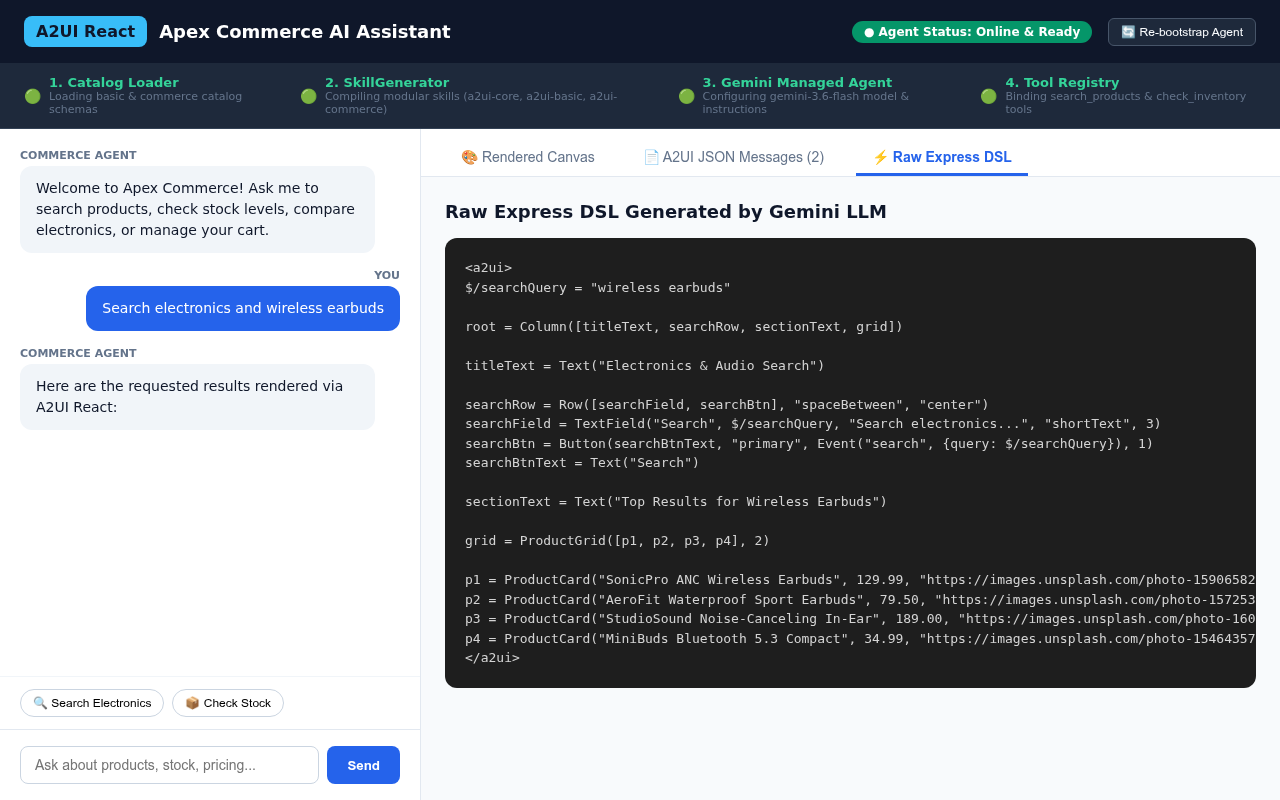
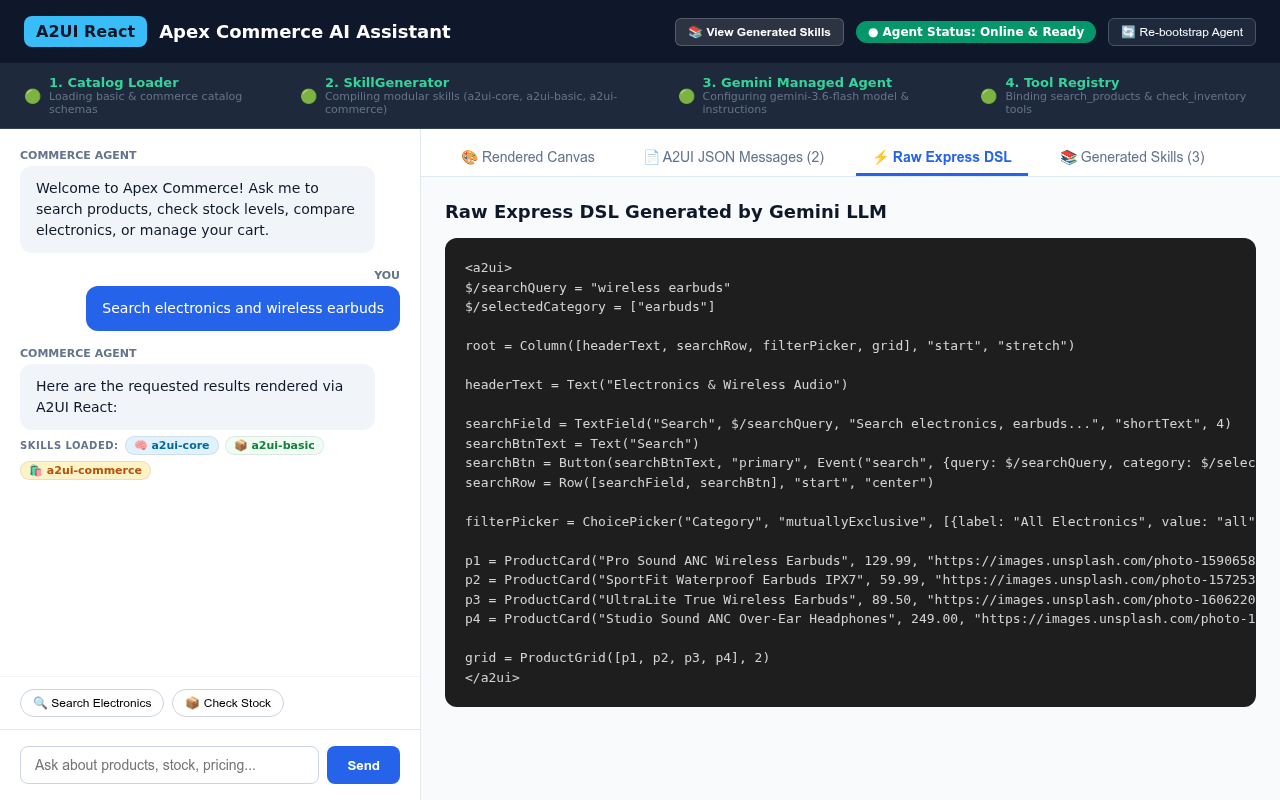
feat(demo): add generated skills inspector tab, header button, and message history skill loading badges

diff --git a/samples/community/commerce_agent_demo/client/src/App.tsx b/samples/community/commerce_agent_demo/client/src/App.tsx
@@ -3,10 +3,23 @@ import {Catalog, MessageProcessor} from '@a2ui/web_core/v0_9';
 import {basicCatalog, A2uiSurface} from '@a2ui/react/v0_9';
 import {commerceCatalog} from './commerceCatalog';
 
+interface LoadedSkill {
+  id: string;
+  name: string;
+  description: string;
+}
+
 interface ChatMessage {
   id: string;
   sender: 'user' | 'assistant';
   text: string;
+  loadedSkills?: LoadedSkill[];
+}
+
+interface SkillItem {
+  name: string;
+  path: string;
+  content: string;
 }
 
 interface BootstrapStep {
@@ -29,9 +42,13 @@ export default function App() {
   const [surfaceId, setSurfaceId] = useState<string>('main');
 
   // Inspector & Code Tabs
-  const [activeTab, setActiveTab] = useState<'canvas' | 'json' | 'express'>('canvas');
+  const [activeTab, setActiveTab] = useState<'canvas' | 'json' | 'express' | 'skills'>('canvas');
   const [rawExpress, setRawExpress] = useState<string>('');
   const [a2uiMessages, setA2uiMessages] = useState<any[]>([]);
+
+  // Skills Viewer State
+  const [skills, setSkills] = useState<SkillItem[]>([]);
+  const [activeSkillTab, setActiveSkillTab] = useState<string>('a2ui-core');
 
   // Bootstrap Tracker State
   const [bootstrapStatus, setBootstrapStatus] = useState<'initializing' | 'ready'>('initializing');
@@ -62,9 +79,17 @@ export default function App() {
     },
   ]);
 
-  // Run Bootstrap Sequence on Mount
+  // Run Bootstrap Sequence & Fetch Generated Skills on Mount
   useEffect(() => {
     runBootstrapSequence();
+    fetch('/api/skills')
+      .then(res => res.json())
+      .then(data => {
+        if (data.skills && Array.isArray(data.skills)) {
+          setSkills(data.skills);
+        }
+      })
+      .catch(err => console.error('Failed to fetch skills:', err));
   }, []);
 
   const runBootstrapSequence = async () => {
@@ -131,7 +156,7 @@ export default function App() {
     // Synchronously create shared surface main on initialization
     proc.processMessages([
       {
-        version: 'v1.0',
+        version: 'v0.9',
         createSurface: {
           surfaceId: 'main',
           catalogId: 'https://a2ui.org/specification/v1_0/catalogs/basic/catalog.json',
@@ -206,6 +231,11 @@ export default function App() {
           data.status === 'success'
             ? 'Here are the requested results rendered via A2UI React:'
             : `Error: ${data.error || 'Failed to fetch'}`,
+        loadedSkills: data.loaded_skills || [
+          {id: 'a2ui-core', name: 'a2ui-core', description: 'Express DSL Grammar & Syntax Rules'},
+          {id: 'a2ui-basic', name: 'a2ui-basic', description: 'Standard Basic Component Catalog'},
+          {id: 'a2ui-commerce', name: 'a2ui-commerce', description: 'Commerce Catalog (ProductCard, ProductGrid)'},
+        ],
       };
 
       setMessages(prev => [...prev, assistantMsg]);
@@ -261,7 +291,25 @@ export default function App() {
             Apex Commerce AI Assistant
           </h2>
         </div>
-        <div style={{display: 'flex', alignItems: 'center', gap: '16px'}}>
+        <div style={{display: 'flex', alignItems: 'center', gap: '12px'}}>
+          <button
+            onClick={() => setActiveTab('skills')}
+            style={{
+              background: activeTab === 'skills' ? '#38bdf8' : 'rgba(255,255,255,0.12)',
+              color: activeTab === 'skills' ? '#0f172a' : '#ffffff',
+              border: '1px solid rgba(255,255,255,0.2)',
+              borderRadius: '6px',
+              padding: '6px 12px',
+              fontSize: '12px',
+              fontWeight: 600,
+              cursor: 'pointer',
+              display: 'flex',
+              alignItems: 'center',
+              gap: '6px',
+            }}
+          >
+            📚 View Generated Skills
+          </button>
           <span
             style={{
               fontSize: '12px',
@@ -385,6 +433,65 @@ export default function App() {
                 >
                   {msg.text}
                 </div>
+                {msg.loadedSkills && msg.loadedSkills.length > 0 && (
+                  <div
+                    style={{
+                      display: 'flex',
+                      gap: '6px',
+                      flexWrap: 'wrap',
+                      marginTop: '6px',
+                      marginBottom: '4px',
+                      alignItems: 'center',
+                    }}
+                  >
+                    <span
+                      style={{
+                        fontSize: '10px',
+                        color: '#64748b',
+                        fontWeight: 600,
+                        textTransform: 'uppercase',
+                        letterSpacing: '0.5px',
+                      }}
+                    >
+                      Skills Loaded:
+                    </span>
+                    {msg.loadedSkills.map(sk => (
+                      <span
+                        key={sk.id}
+                        onClick={() => {
+                          setActiveSkillTab(sk.name);
+                          setActiveTab('skills');
+                        }}
+                        style={{
+                          fontSize: '11px',
+                          background: sk.name.includes('core')
+                            ? '#e0f2fe'
+                            : sk.name.includes('basic')
+                            ? '#f0fdf4'
+                            : '#fef3c7',
+                          color: sk.name.includes('core')
+                            ? '#0369a1'
+                            : sk.name.includes('basic')
+                            ? '#15803d'
+                            : '#b45309',
+                          padding: '2px 8px',
+                          borderRadius: '10px',
+                          fontWeight: 600,
+                          border: '1px solid rgba(0,0,0,0.08)',
+                          cursor: 'pointer',
+                        }}
+                        title={`Click to inspect source code of ${sk.name} skill`}
+                      >
+                        {sk.name.includes('core')
+                          ? '🧠 '
+                          : sk.name.includes('basic')
+                          ? '📦 '
+                          : '🛍 '}
+                        {sk.name}
+                      </span>
+                    ))}
+                  </div>
+                )}
               </div>
             ))}
             {loading && (
@@ -548,6 +655,24 @@ export default function App() {
             >
               ⚡ Raw Express DSL
             </button>
+            <button
+              onClick={() => setActiveTab('skills')}
+              style={{
+                padding: '8px 16px',
+                border: 'none',
+                borderBottom:
+                  activeTab === 'skills'
+                    ? '3px solid #2563eb'
+                    : '3px solid transparent',
+                background: 'transparent',
+                fontWeight: activeTab === 'skills' ? 700 : 500,
+                color: activeTab === 'skills' ? '#2563eb' : '#64748b',
+                fontSize: '14px',
+                cursor: 'pointer',
+              }}
+            >
+              📚 Generated Skills ({skills.length || 3})
+            </button>
           </div>
 
           {/* Tab Content Panel */}
@@ -655,6 +780,106 @@ export default function App() {
                     No Express DSL text generated yet. Submit a query to inspect.
                   </div>
                 )}
+              </div>
+            )}
+
+            {activeTab === 'skills' && (
+              <div>
+                <div style={{display: 'flex', justifyContent: 'space-between', alignItems: 'center', marginBottom: '16px'}}>
+                  <h3 style={{margin: 0, fontSize: '18px', color: '#0f172a'}}>
+                    Compiled Modular Skills Source Code
+                  </h3>
+                  <div style={{fontSize: '12px', color: '#64748b'}}>
+                    Generated dynamically by <code style={{background: '#e2e8f0', padding: '2px 6px', borderRadius: '4px'}}>SkillGenerator</code>
+                  </div>
+                </div>
+
+                {/* Sub-tabs for Skill Selection */}
+                <div style={{display: 'flex', gap: '8px', marginBottom: '16px'}}>
+                  {(skills.length > 0
+                    ? skills
+                    : [
+                        {name: 'a2ui-core', path: 'a2ui-core/SKILL.md', content: 'Loading skill content...'},
+                        {name: 'a2ui-basic', path: 'a2ui-basic/SKILL.md', content: 'Loading skill content...'},
+                        {name: 'a2ui-commerce', path: 'a2ui-commerce/SKILL.md', content: 'Loading skill content...'},
+                      ]
+                  ).map(sk => {
+                    const cleanLabel = sk.name.includes('core')
+                      ? 'a2ui-core'
+                      : sk.name.includes('basic')
+                      ? 'a2ui-basic'
+                      : 'a2ui-commerce';
+                    const isSelected =
+                      activeSkillTab === cleanLabel ||
+                      activeSkillTab === sk.name ||
+                      (activeSkillTab === 'a2ui-core' && sk.name.includes('core'));
+                    return (
+                      <button
+                        key={sk.name}
+                        onClick={() => setActiveSkillTab(cleanLabel)}
+                        style={{
+                          padding: '8px 14px',
+                          borderRadius: '8px',
+                          border: isSelected ? '1px solid #2563eb' : '1px solid #cbd5e1',
+                          background: isSelected ? '#eff6ff' : '#ffffff',
+                          color: isSelected ? '#1d4ed8' : '#475569',
+                          fontWeight: isSelected ? 700 : 500,
+                          fontSize: '13px',
+                          cursor: 'pointer',
+                          display: 'flex',
+                          alignItems: 'center',
+                          gap: '6px',
+                        }}
+                      >
+                        {cleanLabel.includes('core')
+                          ? '🧠 '
+                          : cleanLabel.includes('basic')
+                          ? '📦 '
+                          : '🛍 '}
+                        {cleanLabel}
+                      </button>
+                    );
+                  })}
+                </div>
+
+                {/* Display Content for Active Skill */}
+                {(() => {
+                  const currentSkill =
+                    skills.find(s => s.name === activeSkillTab || s.path.startsWith(activeSkillTab)) ||
+                    skills[0];
+
+                  return currentSkill ? (
+                    <div style={{background: '#ffffff', border: '1px solid #e2e8f0', borderRadius: '12px', overflow: 'hidden'}}>
+                      <div style={{background: '#f8fafc', padding: '12px 16px', borderBottom: '1px solid #e2e8f0', display: 'flex', justifyContent: 'space-between', alignItems: 'center'}}>
+                        <span style={{fontSize: '12px', fontFamily: 'monospace', color: '#475569', fontWeight: 600}}>
+                          📁 samples/community/commerce_agent_demo/skills/{currentSkill.path}
+                        </span>
+                        <span style={{fontSize: '11px', background: '#dbeafe', color: '#1e40af', padding: '2px 8px', borderRadius: '10px', fontWeight: 600}}>
+                          A2UI Modular Skill
+                        </span>
+                      </div>
+                      <pre
+                        style={{
+                          background: '#0f172a',
+                          color: '#e2e8f0',
+                          padding: '20px',
+                          margin: 0,
+                          fontSize: '13px',
+                          lineHeight: 1.5,
+                          overflowX: 'auto',
+                          maxHeight: '520px',
+                          fontFamily: 'Consolas, Monaco, monospace',
+                        }}
+                      >
+                        {currentSkill.content}
+                      </pre>
+                    </div>
+                  ) : (
+                    <div style={{border: '2px dashed #cbd5e1', borderRadius: '12px', padding: '48px', textAlign: 'center', color: '#64748b'}}>
+                      Loading skill packages from server...
+                    </div>
+                  );
+                })()}
               </div>
             )}
           </div>

diff --git a/samples/community/commerce_agent_demo/server.py b/samples/community/commerce_agent_demo/server.py
@@ -28,6 +28,7 @@ import copy
 import http.server
 import socketserver
 import json
+import time
 from typing import Any, Optional
 
 from google import genai
@@ -264,6 +265,35 @@ def main():
                     self.send_header("Content-Type", "application/json")
                     self.end_headers()
                     self.wfile.write(json.dumps(bootstrap_data).encode("utf-8"))
+                elif self.path == "/api/skills":
+                    skill_list = []
+                    if os.path.exists(OUTPUT_SKILLS_DIR):
+                        for root, _, files in os.walk(OUTPUT_SKILLS_DIR):
+                            for file in files:
+                                if file.endswith(".md"):
+                                    full_p = os.path.join(root, file)
+                                    rel_p = os.path.relpath(full_p, OUTPUT_SKILLS_DIR)
+                                    dir_name = rel_p.split("/")[0]
+                                    clean_name = (
+                                        "a2ui-basic" if "basic" in rel_p
+                                        else "a2ui-commerce" if "commerce" in rel_p
+                                        else "a2ui-core" if "core" in rel_p
+                                        else dir_name
+                                    )
+                                    with open(full_p, "r", encoding="utf-8") as sf:
+                                        content = sf.read()
+                                    skill_list.append({
+                                        "name": clean_name,
+                                        "path": rel_p,
+                                        "content": content,
+                                    })
+                    # Sort skills logically: core, basic, commerce
+                    skill_order = {"a2ui-core": 0, "a2ui-basic": 1, "a2ui-commerce": 2}
+                    skill_list.sort(key=lambda x: skill_order.get(x["name"], 99))
+                    self.send_response(200)
+                    self.send_header("Content-Type", "application/json")
+                    self.end_headers()
+                    self.wfile.write(json.dumps({"skills": skill_list}).encode("utf-8"))
                 elif self.path in ["/", "/index.html"]:
                     self.send_response(200)
                     self.send_header("Content-Type", "text/html")
@@ -282,7 +312,16 @@ def main():
                     try:
                         raw_resp = query_commerce_agent(client, skills_text, user_prompt)
                         validated = parser_inst.compile(raw_resp)
-                        res_data = {"status": "success", "raw": raw_resp, "a2ui_messages": validated}
+                        res_data = {
+                            "status": "success",
+                            "raw": raw_resp,
+                            "a2ui_messages": validated,
+                            "loaded_skills": [
+                                {"id": "a2ui-core", "name": "a2ui-core", "description": "Express DSL Grammar & Syntax Rules"},
+                                {"id": "a2ui-basic", "name": "a2ui-basic", "description": "Standard Basic Component Catalog"},
+                                {"id": "a2ui-commerce", "name": "a2ui-commerce", "description": "Commerce Catalog (ProductCard, ProductGrid)"},
+                            ],
+                        }
                     except Exception as err:
                         print(f"Error querying commerce agent: {err}")
                         res_data = {"status": "error", "error": str(err)}

diff --git a/samples/community/commerce_agent_demo/screenshot.py b/samples/community/commerce_agent_demo/screenshot.py
@@ -63,6 +63,13 @@ def capture_screenshots(url: str = "http://localhost:5180"):
             page.screenshot(path=express_path, full_page=True)
             print(f"Saved Express Inspector screenshot to: {express_path}")
 
+            # 4. Capture Compiled Skills Inspector Tab
+            page.locator("button:has-text('Generated Skills')").first.click()
+            time.sleep(1)
+            skills_path = os.path.join(SCREENSHOTS_DIR, "skills_inspector.png")
+            page.screenshot(path=skills_path, full_page=True)
+            print(f"Saved Skills Inspector screenshot to: {skills_path}")
+
         except Exception as e:
             print(f"Error capturing screenshots: {e}")
             sys.exit(1)
